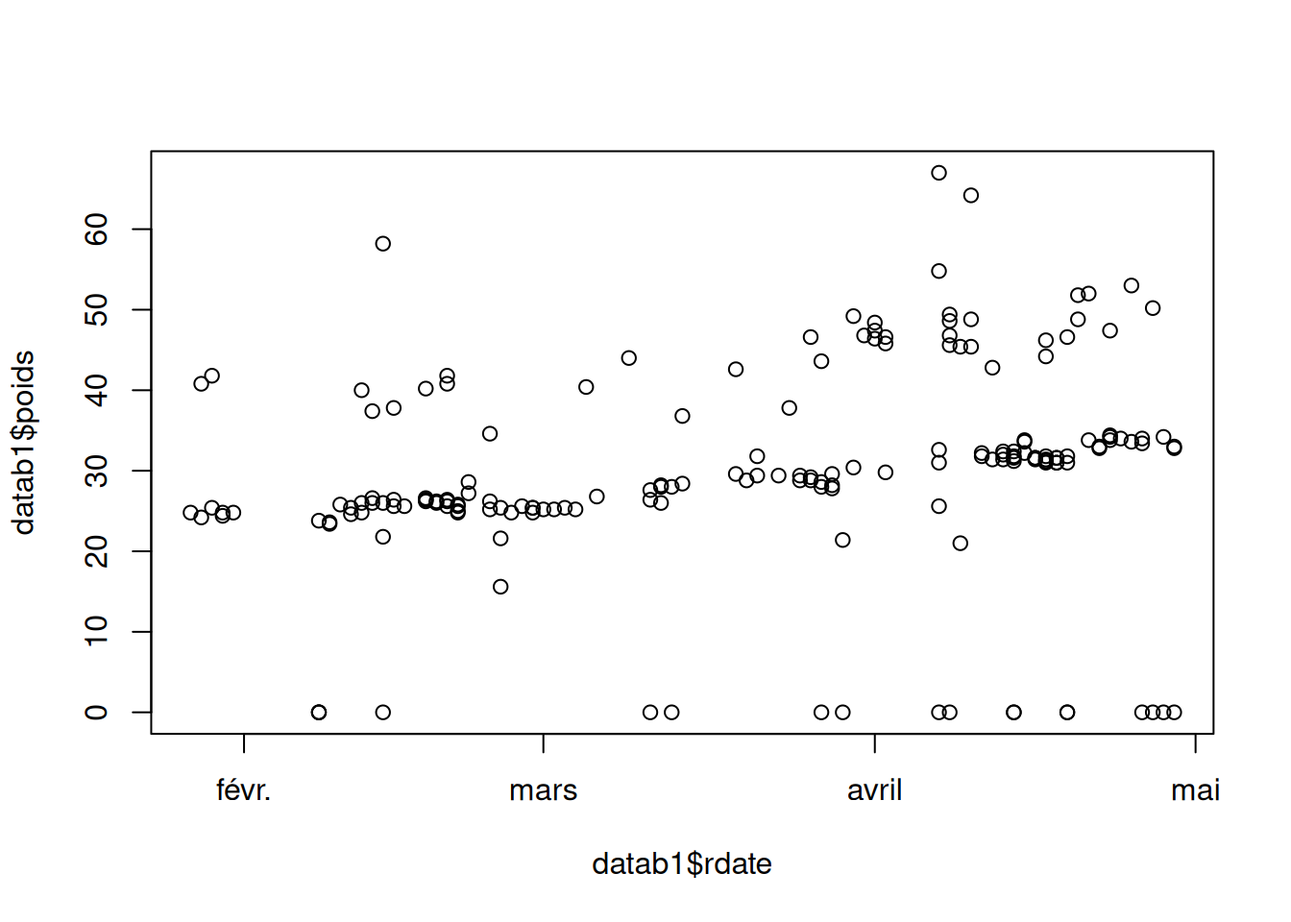
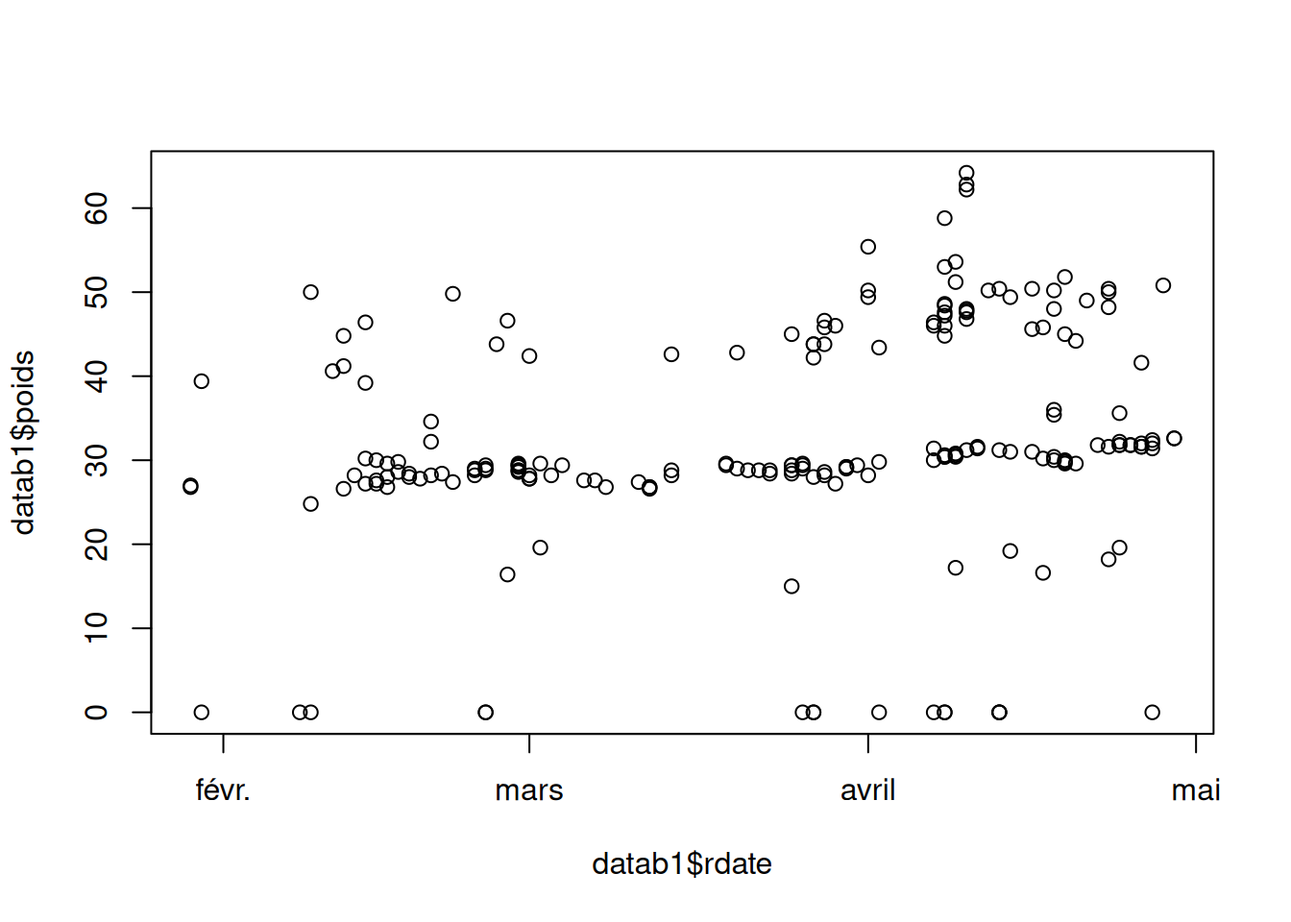
kmeans et knn

diff --git a/MARIAC_DUIGOU_TP2.html b/MARIAC_DUIGOU_TP2.html
@@ -85,7 +85,6 @@ pre > code.sourceCode > span > a:first-child::before { text-decoration: underlin
    
   <ul>
   <li><a href="#première-méthode-k-nn" id="toc-première-méthode-k-nn" class="nav-link active" data-scroll-target="#première-méthode-k-nn"><span class="header-section-number">1</span> Première méthode : K-nn</a></li>
-  <li><a href="#test" id="toc-test" class="nav-link" data-scroll-target="#test"><span class="header-section-number">2</span> test</a></li>
   </ul>
 </nav>
 </div>
@@ -133,7 +132,7 @@ pre > code.sourceCode > span > a:first-child::before { text-decoration: underlin
 <div class="sourceCode cell-code" id="cb1"><pre class="sourceCode r code-with-copy"><code class="sourceCode r"><span id="cb1-1"><a href="#cb1-1" aria-hidden="true" tabindex="-1"></a>data <span class="ot">&lt;-</span> <span class="fu">read.csv</span>(<span class="st">"data_arles2021.csv"</span>,<span class="at">sep =</span> <span class="st">";"</span>)</span>
 <span id="cb1-2"><a href="#cb1-2" aria-hidden="true" tabindex="-1"></a>data<span class="sc">$</span>rdate <span class="ot">&lt;-</span> <span class="fu">as.Date</span>(data<span class="sc">$</span>rdate,<span class="at">format=</span><span class="st">"%d/%m/%Y"</span>)</span>
 <span id="cb1-3"><a href="#cb1-3" aria-hidden="true" tabindex="-1"></a></span>
-<span id="cb1-4"><a href="#cb1-4" aria-hidden="true" tabindex="-1"></a>datab1 <span class="ot">&lt;-</span> data[data<span class="sc">$</span>RFID<span class="sc">==</span><span class="st">"250 017 033 503 634"</span>,]</span>
+<span id="cb1-4"><a href="#cb1-4" aria-hidden="true" tabindex="-1"></a>datab1 <span class="ot">&lt;-</span> data[data<span class="sc">$</span>RFID<span class="sc">==</span><span class="st">"250 017 033 503 119"</span>,]</span>
 <span id="cb1-5"><a href="#cb1-5" aria-hidden="true" tabindex="-1"></a><span class="fu">plot</span>(datab1<span class="sc">$</span>rdate,datab1<span class="sc">$</span>poids)</span></code><button title="Copy to Clipboard" class="code-copy-button"><i class="bi"></i></button></pre></div>
 </details>
 <div class="cell-output-display">
@@ -148,23 +147,24 @@ pre > code.sourceCode > span > a:first-child::before { text-decoration: underlin
 <div class="cell">
 <details class="code-fold">
 <summary>Afficher / masquer le code</summary>
-<div class="sourceCode cell-code" id="cb2"><pre class="sourceCode r code-with-copy"><code class="sourceCode r"><span id="cb2-1"><a href="#cb2-1" aria-hidden="true" tabindex="-1"></a><span class="fu">set.seed</span>(<span class="dv">1</span>)</span>
-<span id="cb2-2"><a href="#cb2-2" aria-hidden="true" tabindex="-1"></a><span class="co"># variables utilisées pour k-means</span></span>
-<span id="cb2-3"><a href="#cb2-3" aria-hidden="true" tabindex="-1"></a>X <span class="ot">&lt;-</span> <span class="fu">scale</span>(data<span class="sc">$</span>poids)</span>
-<span id="cb2-4"><a href="#cb2-4" aria-hidden="true" tabindex="-1"></a></span>
-<span id="cb2-5"><a href="#cb2-5" aria-hidden="true" tabindex="-1"></a>km <span class="ot">&lt;-</span> <span class="fu">kmeans</span>(X, <span class="at">centers =</span> <span class="dv">3</span>, <span class="at">nstart =</span> <span class="dv">25</span>)  <span class="co"># k = 3 comme prevu</span></span>
-<span id="cb2-6"><a href="#cb2-6" aria-hidden="true" tabindex="-1"></a>data<span class="sc">$</span>cluster <span class="ot">&lt;-</span> km<span class="sc">$</span>cluster</span>
-<span id="cb2-7"><a href="#cb2-7" aria-hidden="true" tabindex="-1"></a></span>
-<span id="cb2-8"><a href="#cb2-8" aria-hidden="true" tabindex="-1"></a><span class="co"># Extraire le sous-jeu: toutes les lignes du cluster 2</span></span>
-<span id="cb2-9"><a href="#cb2-9" aria-hidden="true" tabindex="-1"></a>datagroupe <span class="ot">&lt;-</span> data[data<span class="sc">$</span>cluster <span class="sc">==</span> <span class="dv">2</span>, ]</span></code><button title="Copy to Clipboard" class="code-copy-button"><i class="bi"></i></button></pre></div>
+<div class="sourceCode cell-code" id="cb2"><pre class="sourceCode r code-with-copy"><code class="sourceCode r"><span id="cb2-1"><a href="#cb2-1" aria-hidden="true" tabindex="-1"></a><span class="fu">set.seed</span>(<span class="dv">02062002</span>)</span>
+<span id="cb2-2"><a href="#cb2-2" aria-hidden="true" tabindex="-1"></a>km <span class="ot">&lt;-</span> <span class="fu">kmeans</span>(<span class="fu">scale</span>(data<span class="sc">$</span>poids), <span class="at">centers =</span> <span class="dv">3</span>, <span class="at">nstart =</span> <span class="dv">25</span>)</span>
+<span id="cb2-3"><a href="#cb2-3" aria-hidden="true" tabindex="-1"></a></span>
+<span id="cb2-4"><a href="#cb2-4" aria-hidden="true" tabindex="-1"></a>data<span class="sc">$</span>cluster_raw <span class="ot">&lt;-</span> km<span class="sc">$</span>cluster</span>
+<span id="cb2-5"><a href="#cb2-5" aria-hidden="true" tabindex="-1"></a></span>
+<span id="cb2-6"><a href="#cb2-6" aria-hidden="true" tabindex="-1"></a>m <span class="ot">&lt;-</span> <span class="fu">tapply</span>(data<span class="sc">$</span>poids, data<span class="sc">$</span>cluster_raw, mean)</span>
+<span id="cb2-7"><a href="#cb2-7" aria-hidden="true" tabindex="-1"></a>ordre <span class="ot">&lt;-</span> <span class="fu">order</span>(m)  <span class="co"># Pour trier les numero de cluster pour extraire la bonne tendance</span></span>
+<span id="cb2-8"><a href="#cb2-8" aria-hidden="true" tabindex="-1"></a></span>
+<span id="cb2-9"><a href="#cb2-9" aria-hidden="true" tabindex="-1"></a>data<span class="sc">$</span>cluster <span class="ot">&lt;-</span> <span class="fu">match</span>(data<span class="sc">$</span>cluster_raw, ordre)</span>
+<span id="cb2-10"><a href="#cb2-10" aria-hidden="true" tabindex="-1"></a></span>
+<span id="cb2-11"><a href="#cb2-11" aria-hidden="true" tabindex="-1"></a>datagroupe <span class="ot">&lt;-</span> data[data<span class="sc">$</span>cluster <span class="sc">==</span> <span class="dv">2</span>, ]</span></code><button title="Copy to Clipboard" class="code-copy-button"><i class="bi"></i></button></pre></div>
 </details>
 </div>
 <div class="cell">
 <details class="code-fold">
 <summary>Afficher / masquer le code</summary>
-<div class="sourceCode cell-code" id="cb3"><pre class="sourceCode r code-with-copy"><code class="sourceCode r"><span id="cb3-1"><a href="#cb3-1" aria-hidden="true" tabindex="-1"></a><span class="co"># Visualisation des clusters</span></span>
-<span id="cb3-2"><a href="#cb3-2" aria-hidden="true" tabindex="-1"></a>datab1 <span class="ot">&lt;-</span> data[data<span class="sc">$</span>RFID<span class="sc">==</span><span class="st">"250 017 033 503 634"</span>,]</span>
-<span id="cb3-3"><a href="#cb3-3" aria-hidden="true" tabindex="-1"></a><span class="fu">plot</span>(datab1<span class="sc">$</span>rdate,datab1<span class="sc">$</span>poids, <span class="at">col =</span> datab1<span class="sc">$</span>cluster, <span class="at">pch =</span> <span class="dv">16</span>,     <span class="at">xlab =</span> <span class="st">"Index des brebis"</span>, <span class="at">ylab =</span> <span class="st">"Poids"</span>)</span></code><button title="Copy to Clipboard" class="code-copy-button"><i class="bi"></i></button></pre></div>
+<div class="sourceCode cell-code" id="cb3"><pre class="sourceCode r code-with-copy"><code class="sourceCode r"><span id="cb3-1"><a href="#cb3-1" aria-hidden="true" tabindex="-1"></a>datab1 <span class="ot">&lt;-</span> data[data<span class="sc">$</span>RFID<span class="sc">==</span><span class="st">"250 017 033 503 119"</span>,]</span>
+<span id="cb3-2"><a href="#cb3-2" aria-hidden="true" tabindex="-1"></a><span class="fu">plot</span>(datab1<span class="sc">$</span>rdate,datab1<span class="sc">$</span>poids, <span class="at">col =</span> datab1<span class="sc">$</span>cluster, <span class="at">pch =</span> <span class="dv">16</span>,     <span class="at">xlab =</span> <span class="st">"Index des brebis"</span>, <span class="at">ylab =</span> <span class="st">"Poids"</span>)</span></code><button title="Copy to Clipboard" class="code-copy-button"><i class="bi"></i></button></pre></div>
 </details>
 <div class="cell-output-display">
 <div>
@@ -180,13 +180,23 @@ pre > code.sourceCode > span > a:first-child::before { text-decoration: underlin
 <details class="code-fold">
 <summary>Afficher / masquer le code</summary>
 <div class="sourceCode cell-code" id="cb4"><pre class="sourceCode r code-with-copy"><code class="sourceCode r"><span id="cb4-1"><a href="#cb4-1" aria-hidden="true" tabindex="-1"></a>datagroupe<span class="sc">$</span>datetime <span class="ot">&lt;-</span> <span class="fu">as.POSIXct</span>(</span>
-<span id="cb4-2"><a href="#cb4-2" aria-hidden="true" tabindex="-1"></a>  <span class="fu">paste</span>(datagroupe<span class="sc">$</span>rdate, datagroupe<span class="sc">$</span>rheure),</span>
+<span id="cb4-2"><a href="#cb4-2" aria-hidden="true" tabindex="-1"></a>  <span class="fu">paste</span>(<span class="fu">format</span>(datagroupe<span class="sc">$</span>rdate, <span class="st">"%Y-%m-%d"</span>), <span class="fu">trimws</span>(datagroupe<span class="sc">$</span>rheure)),</span>
 <span id="cb4-3"><a href="#cb4-3" aria-hidden="true" tabindex="-1"></a>  <span class="at">format =</span> <span class="st">"%Y-%m-%d %H:%M"</span>,</span>
 <span id="cb4-4"><a href="#cb4-4" aria-hidden="true" tabindex="-1"></a>  <span class="at">tz =</span> <span class="st">"Europe/Paris"</span></span>
 <span id="cb4-5"><a href="#cb4-5" aria-hidden="true" tabindex="-1"></a>)</span>
 <span id="cb4-6"><a href="#cb4-6" aria-hidden="true" tabindex="-1"></a></span>
-<span id="cb4-7"><a href="#cb4-7" aria-hidden="true" tabindex="-1"></a><span class="co"># temps numérique en jours depuis la première mesure pour que ce soir stabme</span></span>
-<span id="cb4-8"><a href="#cb4-8" aria-hidden="true" tabindex="-1"></a>datagroupe<span class="sc">$</span>t <span class="ot">&lt;-</span> <span class="fu">as.numeric</span>(datagroupe<span class="sc">$</span>datetime <span class="sc">-</span> <span class="fu">min</span>(datagroupe<span class="sc">$</span>datetime, <span class="at">na.rm =</span> <span class="cn">TRUE</span>)) <span class="sc">/</span> (<span class="dv">60</span><span class="sc">*</span><span class="dv">60</span><span class="sc">*</span><span class="dv">24</span>)</span></code><button title="Copy to Clipboard" class="code-copy-button"><i class="bi"></i></button></pre></div>
+<span id="cb4-7"><a href="#cb4-7" aria-hidden="true" tabindex="-1"></a><span class="fu">stopifnot</span>(<span class="fu">sum</span>(<span class="fu">is.na</span>(datagroupe<span class="sc">$</span>datetime)) <span class="sc">==</span> <span class="dv">0</span>)</span>
+<span id="cb4-8"><a href="#cb4-8" aria-hidden="true" tabindex="-1"></a></span>
+<span id="cb4-9"><a href="#cb4-9" aria-hidden="true" tabindex="-1"></a>datagroupe<span class="sc">$</span>t <span class="ot">&lt;-</span> <span class="fu">as.numeric</span>(datagroupe<span class="sc">$</span>datetime <span class="sc">-</span> <span class="fu">min</span>(datagroupe<span class="sc">$</span>datetime)) <span class="sc">/</span> (<span class="dv">60</span><span class="sc">*</span><span class="dv">60</span><span class="sc">*</span><span class="dv">24</span>)</span>
+<span id="cb4-10"><a href="#cb4-10" aria-hidden="true" tabindex="-1"></a></span>
+<span id="cb4-11"><a href="#cb4-11" aria-hidden="true" tabindex="-1"></a><span class="co"># 2) maintenant seulement, extraire la brebis</span></span>
+<span id="cb4-12"><a href="#cb4-12" aria-hidden="true" tabindex="-1"></a>rfid <span class="ot">&lt;-</span> <span class="st">"250 017 033 503 119"</span></span>
+<span id="cb4-13"><a href="#cb4-13" aria-hidden="true" tabindex="-1"></a>datab1 <span class="ot">&lt;-</span> datagroupe[datagroupe<span class="sc">$</span>RFID <span class="sc">==</span> rfid, ]</span>
+<span id="cb4-14"><a href="#cb4-14" aria-hidden="true" tabindex="-1"></a></span>
+<span id="cb4-15"><a href="#cb4-15" aria-hidden="true" tabindex="-1"></a><span class="co"># 3) nettoyage</span></span>
+<span id="cb4-16"><a href="#cb4-16" aria-hidden="true" tabindex="-1"></a><span class="fu">stopifnot</span>(<span class="fu">all</span>(<span class="fu">c</span>(<span class="st">"datetime"</span>,<span class="st">"t"</span>,<span class="st">"poids"</span>) <span class="sc">%in%</span> <span class="fu">names</span>(datab1)))  <span class="co"># doit passer</span></span>
+<span id="cb4-17"><a href="#cb4-17" aria-hidden="true" tabindex="-1"></a>datab1 <span class="ot">&lt;-</span> datab1[<span class="fu">complete.cases</span>(datab1[, <span class="fu">c</span>(<span class="st">"datetime"</span>,<span class="st">"t"</span>,<span class="st">"poids"</span>)]), ]</span>
+<span id="cb4-18"><a href="#cb4-18" aria-hidden="true" tabindex="-1"></a>datab1 <span class="ot">&lt;-</span> datab1[<span class="fu">order</span>(datab1<span class="sc">$</span>t), ]</span></code><button title="Copy to Clipboard" class="code-copy-button"><i class="bi"></i></button></pre></div>
 </details>
 </div>
 <div class="cell">
@@ -215,110 +225,33 @@ pre > code.sourceCode > span > a:first-child::before { text-decoration: underlin
 <div class="cell">
 <details class="code-fold">
 <summary>Afficher / masquer le code</summary>
-<div class="sourceCode cell-code" id="cb6"><pre class="sourceCode r code-with-copy"><code class="sourceCode r"><span id="cb6-1"><a href="#cb6-1" aria-hidden="true" tabindex="-1"></a>rfid_cible <span class="ot">&lt;-</span> <span class="st">"250 017 033 503 518"</span></span>
-<span id="cb6-2"><a href="#cb6-2" aria-hidden="true" tabindex="-1"></a>datab1 <span class="ot">&lt;-</span> datagroupe[datagroupe<span class="sc">$</span>RFID <span class="sc">==</span> rfid_cible, ]</span>
-<span id="cb6-3"><a href="#cb6-3" aria-hidden="true" tabindex="-1"></a></span>
-<span id="cb6-4"><a href="#cb6-4" aria-hidden="true" tabindex="-1"></a>datab1 <span class="ot">&lt;-</span> datab1[<span class="fu">complete.cases</span>(datab1[, <span class="fu">c</span>(<span class="st">"t"</span>,<span class="st">"poids"</span>)]), ]</span>
-<span id="cb6-5"><a href="#cb6-5" aria-hidden="true" tabindex="-1"></a>datab1 <span class="ot">&lt;-</span> datab1[<span class="fu">order</span>(datab1<span class="sc">$</span>t), ]</span>
-<span id="cb6-6"><a href="#cb6-6" aria-hidden="true" tabindex="-1"></a></span>
-<span id="cb6-7"><a href="#cb6-7" aria-hidden="true" tabindex="-1"></a>t <span class="ot">&lt;-</span> datab1<span class="sc">$</span>t</span>
-<span id="cb6-8"><a href="#cb6-8" aria-hidden="true" tabindex="-1"></a>y <span class="ot">&lt;-</span> datab1<span class="sc">$</span>poids</span>
-<span id="cb6-9"><a href="#cb6-9" aria-hidden="true" tabindex="-1"></a></span>
-<span id="cb6-10"><a href="#cb6-10" aria-hidden="true" tabindex="-1"></a><span class="co"># grille</span></span>
-<span id="cb6-11"><a href="#cb6-11" aria-hidden="true" tabindex="-1"></a>t_grid <span class="ot">&lt;-</span> <span class="fu">seq</span>(<span class="fu">min</span>(t), <span class="fu">max</span>(t), <span class="at">length.out =</span> <span class="dv">300</span>)</span>
-<span id="cb6-12"><a href="#cb6-12" aria-hidden="true" tabindex="-1"></a></span>
-<span id="cb6-13"><a href="#cb6-13" aria-hidden="true" tabindex="-1"></a><span class="co">#k &lt;- 15</span></span>
-<span id="cb6-14"><a href="#cb6-14" aria-hidden="true" tabindex="-1"></a><span class="co">#y_hat &lt;- knn_reg_1d(t, y, t_grid, k = k)</span></span>
-<span id="cb6-15"><a href="#cb6-15" aria-hidden="true" tabindex="-1"></a></span>
-<span id="cb6-16"><a href="#cb6-16" aria-hidden="true" tabindex="-1"></a>k <span class="ot">&lt;-</span> <span class="fu">max</span>(<span class="dv">3</span>, <span class="fu">floor</span>(<span class="fl">0.2</span> <span class="sc">*</span> <span class="fu">length</span>(t))) <span class="co"># variante</span></span>
-<span id="cb6-17"><a href="#cb6-17" aria-hidden="true" tabindex="-1"></a>y_hat <span class="ot">&lt;-</span> <span class="fu">knn_reg_1d</span>(t, y, t_grid, <span class="at">k =</span> k)</span>
-<span id="cb6-18"><a href="#cb6-18" aria-hidden="true" tabindex="-1"></a></span>
-<span id="cb6-19"><a href="#cb6-19" aria-hidden="true" tabindex="-1"></a><span class="co"># Plot</span></span>
-<span id="cb6-20"><a href="#cb6-20" aria-hidden="true" tabindex="-1"></a><span class="fu">plot</span>(datab1<span class="sc">$</span>datetime, y, <span class="at">pch =</span> <span class="dv">16</span>,</span>
-<span id="cb6-21"><a href="#cb6-21" aria-hidden="true" tabindex="-1"></a>     <span class="at">xlab =</span> <span class="st">"Date"</span>, <span class="at">ylab =</span> <span class="st">"Poids"</span>)</span>
-<span id="cb6-22"><a href="#cb6-22" aria-hidden="true" tabindex="-1"></a></span>
-<span id="cb6-23"><a href="#cb6-23" aria-hidden="true" tabindex="-1"></a>grid_datetime <span class="ot">&lt;-</span> <span class="fu">min</span>(datab1<span class="sc">$</span>datetime, <span class="at">na.rm =</span> <span class="cn">TRUE</span>) <span class="sc">+</span> t_grid <span class="sc">*</span> <span class="dv">24</span><span class="sc">*</span><span class="dv">3600</span></span>
-<span id="cb6-24"><a href="#cb6-24" aria-hidden="true" tabindex="-1"></a><span class="fu">lines</span>(grid_datetime, y_hat, <span class="at">lwd =</span> <span class="dv">2</span>,<span class="at">col=</span><span class="st">"red"</span>)</span></code><button title="Copy to Clipboard" class="code-copy-button"><i class="bi"></i></button></pre></div>
+<div class="sourceCode cell-code" id="cb6"><pre class="sourceCode r code-with-copy"><code class="sourceCode r"><span id="cb6-1"><a href="#cb6-1" aria-hidden="true" tabindex="-1"></a>datab1 <span class="ot">&lt;-</span> datagroupe[datagroupe<span class="sc">$</span>RFID <span class="sc">==</span> <span class="st">"250 017 033 503 119"</span>, ]</span>
+<span id="cb6-2"><a href="#cb6-2" aria-hidden="true" tabindex="-1"></a>datab1 <span class="ot">&lt;-</span> datab1[<span class="fu">complete.cases</span>(datab1[, <span class="fu">c</span>(<span class="st">"t"</span>,<span class="st">"poids"</span>)]), ]</span>
+<span id="cb6-3"><a href="#cb6-3" aria-hidden="true" tabindex="-1"></a>datab1 <span class="ot">&lt;-</span> datab1[<span class="fu">order</span>(datab1<span class="sc">$</span>t), ]</span>
+<span id="cb6-4"><a href="#cb6-4" aria-hidden="true" tabindex="-1"></a></span>
+<span id="cb6-5"><a href="#cb6-5" aria-hidden="true" tabindex="-1"></a>t <span class="ot">&lt;-</span> datab1<span class="sc">$</span>t</span>
+<span id="cb6-6"><a href="#cb6-6" aria-hidden="true" tabindex="-1"></a>y <span class="ot">&lt;-</span> datab1<span class="sc">$</span>poids</span>
+<span id="cb6-7"><a href="#cb6-7" aria-hidden="true" tabindex="-1"></a></span>
+<span id="cb6-8"><a href="#cb6-8" aria-hidden="true" tabindex="-1"></a><span class="co"># grille</span></span>
+<span id="cb6-9"><a href="#cb6-9" aria-hidden="true" tabindex="-1"></a>t_grid <span class="ot">&lt;-</span> <span class="fu">seq</span>(<span class="fu">min</span>(t), <span class="fu">max</span>(t), <span class="at">length.out =</span> <span class="dv">300</span>)</span>
+<span id="cb6-10"><a href="#cb6-10" aria-hidden="true" tabindex="-1"></a></span>
+<span id="cb6-11"><a href="#cb6-11" aria-hidden="true" tabindex="-1"></a><span class="co">#k &lt;- 15</span></span>
+<span id="cb6-12"><a href="#cb6-12" aria-hidden="true" tabindex="-1"></a><span class="co">#y_hat &lt;- knn_reg_1d(t, y, t_grid, k = k)</span></span>
+<span id="cb6-13"><a href="#cb6-13" aria-hidden="true" tabindex="-1"></a></span>
+<span id="cb6-14"><a href="#cb6-14" aria-hidden="true" tabindex="-1"></a>k <span class="ot">&lt;-</span> <span class="fu">max</span>(<span class="dv">3</span>, <span class="fu">floor</span>(<span class="fl">0.2</span> <span class="sc">*</span> <span class="fu">length</span>(t))) <span class="co"># variante</span></span>
+<span id="cb6-15"><a href="#cb6-15" aria-hidden="true" tabindex="-1"></a>y_hat <span class="ot">&lt;-</span> <span class="fu">knn_reg_1d</span>(t, y, t_grid, <span class="at">k =</span> k)</span>
+<span id="cb6-16"><a href="#cb6-16" aria-hidden="true" tabindex="-1"></a></span>
+<span id="cb6-17"><a href="#cb6-17" aria-hidden="true" tabindex="-1"></a><span class="co"># Plot</span></span>
+<span id="cb6-18"><a href="#cb6-18" aria-hidden="true" tabindex="-1"></a><span class="fu">plot</span>(datab1<span class="sc">$</span>datetime, y, <span class="at">pch =</span> <span class="dv">16</span>,</span>
+<span id="cb6-19"><a href="#cb6-19" aria-hidden="true" tabindex="-1"></a>     <span class="at">xlab =</span> <span class="st">"Date"</span>, <span class="at">ylab =</span> <span class="st">"Poids"</span>)</span>
+<span id="cb6-20"><a href="#cb6-20" aria-hidden="true" tabindex="-1"></a></span>
+<span id="cb6-21"><a href="#cb6-21" aria-hidden="true" tabindex="-1"></a>grid_datetime <span class="ot">&lt;-</span> <span class="fu">min</span>(datab1<span class="sc">$</span>datetime, <span class="at">na.rm =</span> <span class="cn">TRUE</span>) <span class="sc">+</span> t_grid <span class="sc">*</span> <span class="dv">24</span><span class="sc">*</span><span class="dv">3600</span></span>
+<span id="cb6-22"><a href="#cb6-22" aria-hidden="true" tabindex="-1"></a><span class="fu">lines</span>(grid_datetime, y_hat, <span class="at">lwd =</span> <span class="dv">2</span>,<span class="at">col=</span><span class="st">"red"</span>)</span></code><button title="Copy to Clipboard" class="code-copy-button"><i class="bi"></i></button></pre></div>
 </details>
 <div class="cell-output-display">
 <div>
 <figure class="figure">
 <p><img src="MARIAC_DUIGOU_TP2_files/figure-html/unnamed-chunk-6-1.png" class="img-fluid figure-img" width="672"></p>
-</figure>
-</div>
-</div>
-</div>
-</section>
-<section id="test" class="level1" data-number="2">
-<h1 data-number="2"><span class="header-section-number">2</span> test</h1>
-<div class="cell">
-<details class="code-fold">
-<summary>Afficher / masquer le code</summary>
-<div class="sourceCode cell-code" id="cb7"><pre class="sourceCode r code-with-copy"><code class="sourceCode r"><span id="cb7-1"><a href="#cb7-1" aria-hidden="true" tabindex="-1"></a>datagroupe<span class="sc">$</span>datetime <span class="ot">&lt;-</span> <span class="fu">as.POSIXct</span>(</span>
-<span id="cb7-2"><a href="#cb7-2" aria-hidden="true" tabindex="-1"></a>  <span class="fu">paste</span>(datagroupe<span class="sc">$</span>rdate, datagroupe<span class="sc">$</span>rheure),</span>
-<span id="cb7-3"><a href="#cb7-3" aria-hidden="true" tabindex="-1"></a>  <span class="at">format =</span> <span class="st">"%Y-%m-%d %H:%M"</span>,</span>
-<span id="cb7-4"><a href="#cb7-4" aria-hidden="true" tabindex="-1"></a>  <span class="at">tz =</span> <span class="st">"Europe/Paris"</span></span>
-<span id="cb7-5"><a href="#cb7-5" aria-hidden="true" tabindex="-1"></a>)</span>
-<span id="cb7-6"><a href="#cb7-6" aria-hidden="true" tabindex="-1"></a></span>
-<span id="cb7-7"><a href="#cb7-7" aria-hidden="true" tabindex="-1"></a><span class="co"># temps numérique en jours depuis la première mesure pour que ce soir stabme</span></span>
-<span id="cb7-8"><a href="#cb7-8" aria-hidden="true" tabindex="-1"></a>datagroupe<span class="sc">$</span>t <span class="ot">&lt;-</span> <span class="fu">as.numeric</span>(datagroupe<span class="sc">$</span>datetime <span class="sc">-</span> <span class="fu">min</span>(datagroupe<span class="sc">$</span>datetime, <span class="at">na.rm =</span> <span class="cn">TRUE</span>)) <span class="sc">/</span> (<span class="dv">60</span><span class="sc">*</span><span class="dv">60</span><span class="sc">*</span><span class="dv">24</span>)</span>
-<span id="cb7-9"><a href="#cb7-9" aria-hidden="true" tabindex="-1"></a></span>
-<span id="cb7-10"><a href="#cb7-10" aria-hidden="true" tabindex="-1"></a></span>
-<span id="cb7-11"><a href="#cb7-11" aria-hidden="true" tabindex="-1"></a>knn_reg_1d <span class="ot">&lt;-</span> <span class="cf">function</span>(t_train, y_train, t_test, <span class="at">k =</span> <span class="dv">15</span>){</span>
-<span id="cb7-12"><a href="#cb7-12" aria-hidden="true" tabindex="-1"></a>  ok <span class="ot">&lt;-</span> <span class="fu">complete.cases</span>(t_train, y_train)</span>
-<span id="cb7-13"><a href="#cb7-13" aria-hidden="true" tabindex="-1"></a>  t_train <span class="ot">&lt;-</span> t_train[ok]</span>
-<span id="cb7-14"><a href="#cb7-14" aria-hidden="true" tabindex="-1"></a>  y_train <span class="ot">&lt;-</span> y_train[ok]</span>
-<span id="cb7-15"><a href="#cb7-15" aria-hidden="true" tabindex="-1"></a></span>
-<span id="cb7-16"><a href="#cb7-16" aria-hidden="true" tabindex="-1"></a>  n <span class="ot">&lt;-</span> <span class="fu">length</span>(t_train)</span>
-<span id="cb7-17"><a href="#cb7-17" aria-hidden="true" tabindex="-1"></a>  <span class="cf">if</span>(n <span class="sc">==</span> <span class="dv">0</span>) <span class="fu">return</span>(<span class="fu">rep</span>(<span class="cn">NA_real_</span>, <span class="fu">length</span>(t_test)))</span>
-<span id="cb7-18"><a href="#cb7-18" aria-hidden="true" tabindex="-1"></a>  k <span class="ot">&lt;-</span> <span class="fu">min</span>(k, n)</span>
-<span id="cb7-19"><a href="#cb7-19" aria-hidden="true" tabindex="-1"></a></span>
-<span id="cb7-20"><a href="#cb7-20" aria-hidden="true" tabindex="-1"></a>  y_hat <span class="ot">&lt;-</span> <span class="fu">numeric</span>(<span class="fu">length</span>(t_test))</span>
-<span id="cb7-21"><a href="#cb7-21" aria-hidden="true" tabindex="-1"></a></span>
-<span id="cb7-22"><a href="#cb7-22" aria-hidden="true" tabindex="-1"></a>  <span class="cf">for</span>(i <span class="cf">in</span> <span class="fu">seq_along</span>(t_test)){</span>
-<span id="cb7-23"><a href="#cb7-23" aria-hidden="true" tabindex="-1"></a>    d <span class="ot">&lt;-</span> <span class="fu">abs</span>(t_train <span class="sc">-</span> t_test[i])   <span class="co"># distance en 1D</span></span>
-<span id="cb7-24"><a href="#cb7-24" aria-hidden="true" tabindex="-1"></a>    idx <span class="ot">&lt;-</span> <span class="fu">order</span>(d)[<span class="dv">1</span><span class="sc">:</span>k]            <span class="co"># k plus proches</span></span>
-<span id="cb7-25"><a href="#cb7-25" aria-hidden="true" tabindex="-1"></a>    y_hat[i] <span class="ot">&lt;-</span> <span class="fu">mean</span>(y_train[idx])  <span class="co"># prédiction</span></span>
-<span id="cb7-26"><a href="#cb7-26" aria-hidden="true" tabindex="-1"></a>  }</span>
-<span id="cb7-27"><a href="#cb7-27" aria-hidden="true" tabindex="-1"></a>  y_hat</span>
-<span id="cb7-28"><a href="#cb7-28" aria-hidden="true" tabindex="-1"></a>}</span>
-<span id="cb7-29"><a href="#cb7-29" aria-hidden="true" tabindex="-1"></a></span>
-<span id="cb7-30"><a href="#cb7-30" aria-hidden="true" tabindex="-1"></a></span>
-<span id="cb7-31"><a href="#cb7-31" aria-hidden="true" tabindex="-1"></a></span>
-<span id="cb7-32"><a href="#cb7-32" aria-hidden="true" tabindex="-1"></a></span>
-<span id="cb7-33"><a href="#cb7-33" aria-hidden="true" tabindex="-1"></a>rfid_cible <span class="ot">&lt;-</span> <span class="st">"250 017 033 503 518"</span></span>
-<span id="cb7-34"><a href="#cb7-34" aria-hidden="true" tabindex="-1"></a>datab1 <span class="ot">&lt;-</span> datagroupe[datagroupe<span class="sc">$</span>RFID <span class="sc">==</span> rfid_cible, ]</span>
-<span id="cb7-35"><a href="#cb7-35" aria-hidden="true" tabindex="-1"></a></span>
-<span id="cb7-36"><a href="#cb7-36" aria-hidden="true" tabindex="-1"></a><span class="co"># Nettoyage / tri</span></span>
-<span id="cb7-37"><a href="#cb7-37" aria-hidden="true" tabindex="-1"></a>datab1 <span class="ot">&lt;-</span> datab1[<span class="fu">complete.cases</span>(datab1[, <span class="fu">c</span>(<span class="st">"t"</span>,<span class="st">"poids"</span>)]), ]</span>
-<span id="cb7-38"><a href="#cb7-38" aria-hidden="true" tabindex="-1"></a>datab1 <span class="ot">&lt;-</span> datab1[<span class="fu">order</span>(datab1<span class="sc">$</span>t), ]</span>
-<span id="cb7-39"><a href="#cb7-39" aria-hidden="true" tabindex="-1"></a></span>
-<span id="cb7-40"><a href="#cb7-40" aria-hidden="true" tabindex="-1"></a>t <span class="ot">&lt;-</span> datab1<span class="sc">$</span>t</span>
-<span id="cb7-41"><a href="#cb7-41" aria-hidden="true" tabindex="-1"></a>y <span class="ot">&lt;-</span> datab1<span class="sc">$</span>poids</span>
-<span id="cb7-42"><a href="#cb7-42" aria-hidden="true" tabindex="-1"></a></span>
-<span id="cb7-43"><a href="#cb7-43" aria-hidden="true" tabindex="-1"></a><span class="co"># Grille pour dessiner la courbe</span></span>
-<span id="cb7-44"><a href="#cb7-44" aria-hidden="true" tabindex="-1"></a>t_grid <span class="ot">&lt;-</span> <span class="fu">seq</span>(<span class="fu">min</span>(t), <span class="fu">max</span>(t), <span class="at">length.out =</span> <span class="dv">300</span>)</span>
-<span id="cb7-45"><a href="#cb7-45" aria-hidden="true" tabindex="-1"></a></span>
-<span id="cb7-46"><a href="#cb7-46" aria-hidden="true" tabindex="-1"></a><span class="co">#k &lt;- 15</span></span>
-<span id="cb7-47"><a href="#cb7-47" aria-hidden="true" tabindex="-1"></a><span class="co">#y_hat &lt;- knn_reg_1d(t, y, t_grid, k = k)</span></span>
-<span id="cb7-48"><a href="#cb7-48" aria-hidden="true" tabindex="-1"></a></span>
-<span id="cb7-49"><a href="#cb7-49" aria-hidden="true" tabindex="-1"></a>k <span class="ot">&lt;-</span> <span class="fu">max</span>(<span class="dv">3</span>, <span class="fu">floor</span>(<span class="fl">0.2</span> <span class="sc">*</span> <span class="fu">length</span>(t))) <span class="co"># variante</span></span>
-<span id="cb7-50"><a href="#cb7-50" aria-hidden="true" tabindex="-1"></a>y_hat <span class="ot">&lt;-</span> <span class="fu">knn_reg_1d</span>(t, y, t_grid, <span class="at">k =</span> k)</span>
-<span id="cb7-51"><a href="#cb7-51" aria-hidden="true" tabindex="-1"></a></span>
-<span id="cb7-52"><a href="#cb7-52" aria-hidden="true" tabindex="-1"></a></span>
-<span id="cb7-53"><a href="#cb7-53" aria-hidden="true" tabindex="-1"></a></span>
-<span id="cb7-54"><a href="#cb7-54" aria-hidden="true" tabindex="-1"></a><span class="co"># Plot (points + courbe)</span></span>
-<span id="cb7-55"><a href="#cb7-55" aria-hidden="true" tabindex="-1"></a><span class="fu">plot</span>(datab1<span class="sc">$</span>datetime, y, <span class="at">pch =</span> <span class="dv">16</span>,</span>
-<span id="cb7-56"><a href="#cb7-56" aria-hidden="true" tabindex="-1"></a>     <span class="at">xlab =</span> <span class="st">"Date"</span>, <span class="at">ylab =</span> <span class="st">"Poids"</span>)</span>
-<span id="cb7-57"><a href="#cb7-57" aria-hidden="true" tabindex="-1"></a></span>
-<span id="cb7-58"><a href="#cb7-58" aria-hidden="true" tabindex="-1"></a><span class="co"># Convertir t_grid -&gt; datetime pour superposer la courbe sur l'axe date</span></span>
-<span id="cb7-59"><a href="#cb7-59" aria-hidden="true" tabindex="-1"></a>grid_datetime <span class="ot">&lt;-</span> <span class="fu">min</span>(datab1<span class="sc">$</span>datetime, <span class="at">na.rm =</span> <span class="cn">TRUE</span>) <span class="sc">+</span> t_grid <span class="sc">*</span> <span class="dv">24</span><span class="sc">*</span><span class="dv">3600</span></span>
-<span id="cb7-60"><a href="#cb7-60" aria-hidden="true" tabindex="-1"></a><span class="fu">lines</span>(grid_datetime, y_hat, <span class="at">lwd =</span> <span class="dv">2</span>,<span class="at">col=</span><span class="st">"red"</span>)</span></code><button title="Copy to Clipboard" class="code-copy-button"><i class="bi"></i></button></pre></div>
-</details>
-<div class="cell-output-display">
-<div>
-<figure class="figure">
-<p><img src="MARIAC_DUIGOU_TP2_files/figure-html/unnamed-chunk-7-1.png" class="img-fluid figure-img" width="672"></p>
 </figure>
 </div>
 </div>
